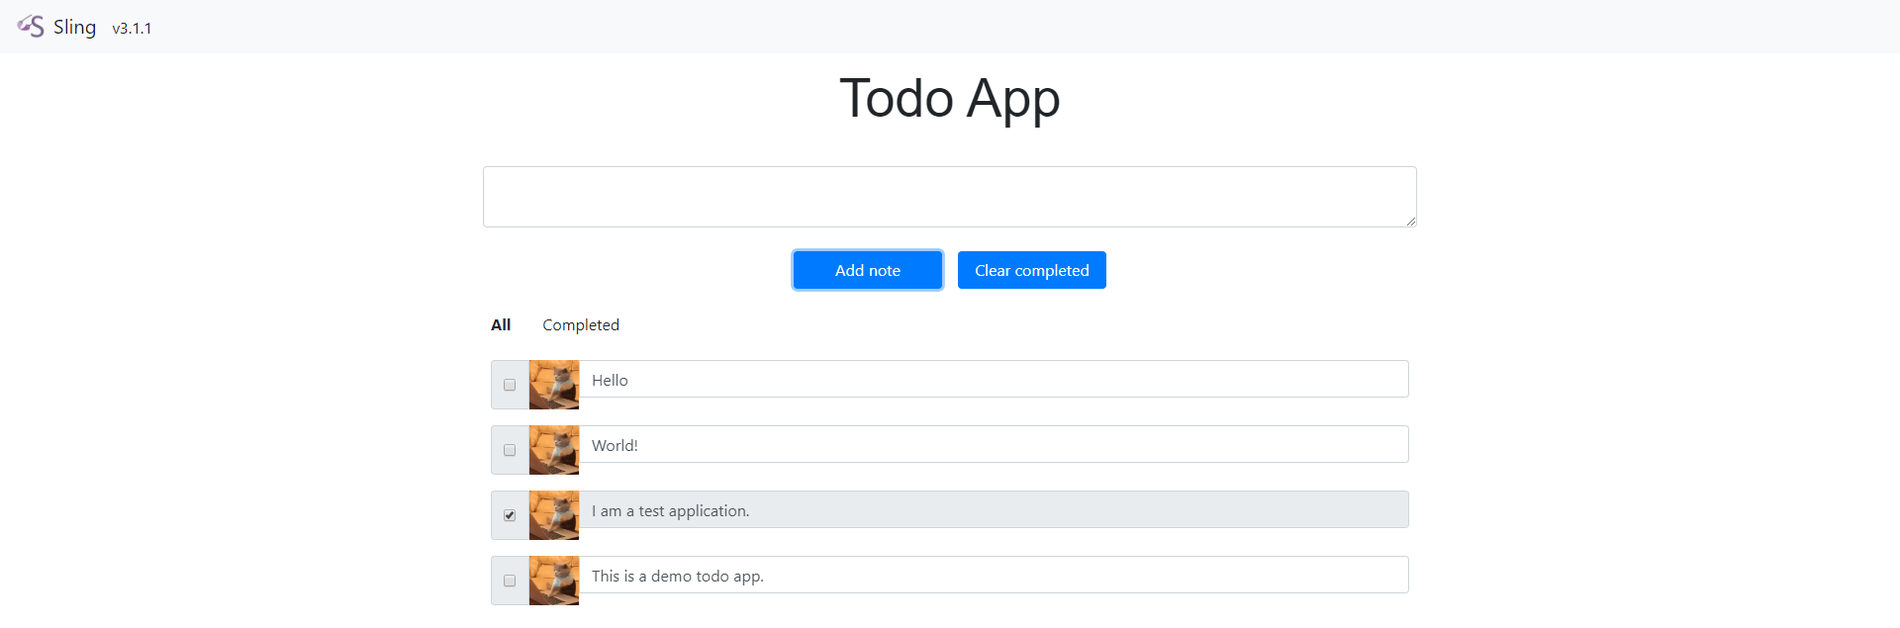
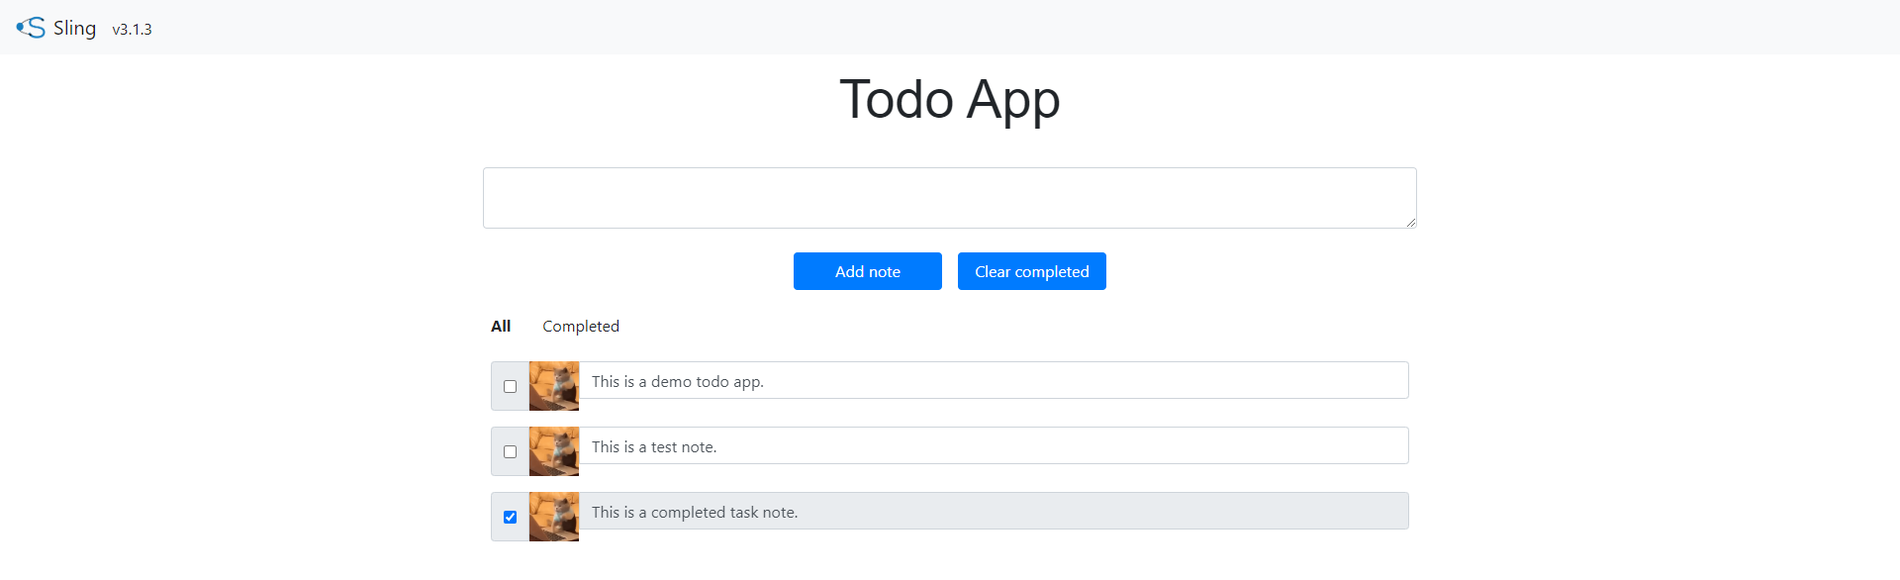
Bug fixes for demo app and updated images
* Updated images for Sling version 3.1.3.
* Minor bug fixes for demo todo app. Attribute readonly set correctly and checked property set correctly.

diff --git a/dist/dist.js b/dist/dist.js
@@ -1,1 +1,1 @@
-!function(t){var e={};function n(o){if(e[o])return e[o].exports;var r=e[o]={i:o,l:!1,exports:{}};return t[o].call(r.exports,r,r.exports,n),r.l=!0,r.exports}n.m=t,n.c=e,n.d=function(t,e,o){n.o(t,e)||Object.defineProperty(t,e,{enumerable:!0,get:o})},n.r=function(t){"undefined"!=typeof Symbol&&Symbol.toStringTag&&Object.defineProperty(t,Symbol.toStringTag,{value:"Module"}),Object.defineProperty(t,"__esModule",{value:!0})},n.t=function(t,e){if(1&e&&(t=n(t)),8&e)return t;if(4&e&&"object"==typeof t&&t&&t.__esModule)return t;var o=Object.create(null);if(n.r(o),Object.defineProperty(o,"default",{enumerable:!0,value:t}),2&e&&"string"!=typeof t)for(var r in t)n.d(o,r,function(e){return t[e]}.bind(null,r));return o},n.n=function(t){var e=t&&t.__esModule?function(){return t.default}:function(){return t};return n.d(e,"a",e),e},n.o=function(t,e){return Object.prototype.hasOwnProperty.call(t,e)},n.p="",n(n.s=0)}([function(t,e,n){"use strict";n.r(e);let o=!1;if(!window.s){o=!0,window.s=function(){};const t=window.setTimeout,e=window.setInterval;s.detachedSetTimeout=t.bind(window),s.detachedSetInterval=e.bind(window),s.version="3.1.2",s.state={},s.destroyFuncArr=[],s.updateMap=new Map}const r=({tagName:t,attrs:e,children:n})=>{let o,r=document.createElement(t);for(let[t,n]of Object.entries(e))"function"===(o=typeof n)?r[t]=n:r.setAttribute(t,n);for(let t of n){let e=l(t);r.appendChild(e)}return r},i=(t,e)=>{let n=[];(t=Array.from(t)).forEach((t,o)=>{n.push(a(t,e[o]))});let o=[];for(let n of e.slice(t.length))"string"==typeof n?o.push(t=>(t.textContent!==n&&(t.textContent=n),t)):o.push(t=>(t.appendChild(l(n)),t));return t=>{for(let[e,o]of((t,e)=>{let n=[];for(let o=0;o<Math.max(t.length,e.length);++o)n.push([t[o],e[o]]);return n})(n,t.childNodes))e&&e(o);for(let e of o)e(t);return s._cdr&&s.changeDetector.changeDetectionStrategy===s.CHANGE_STRATEGY_AUTOMATIC&&s._proxyAllEvents(t),t}},a=(t,e)=>{if(!e)return t=>{t.remove()};if("string"==typeof t||"string"==typeof e)return t!==e?t=>{let n=l(e);return t.replaceWith(n),n}:t=>void 0;if(e.attrs.slUseExisting)return t=>t;let n=((t,e)=>{let n,o=[];for(let n of t)e[n.name]||o.push(t=>(t.setAttribute(n.name,n.value),t));for(let[t,r]of Object.entries(e))"function"===(n=typeof r)?o.push(e=>(e[t]=r,e)):o.push(e=>(e.setAttribute(t,r),e));for(let n of t)n in e||o.push(t=>(t.removeAttribute(n),t));return t=>{for(let e of o)e(t)}})(t.attributes,e.attrs),o=i(t.children,e.children);return t=>(n(t),o(t),t)},l=t=>"string"==typeof t?document.createTextNode(t):r(t),c=(t,e,n)=>{let o=t.id,i=(t=>(t.slOnInit&&t.slOnInit(),"string"==typeof(t=t.view())?document.createTextNode(t):r(t)))(e);if(n&&s.updateMap.set(t.id,e),t.replaceWith(i),t.id!==o&&(console.warn('Mounted component root element ID set to: "'+o+'"'),t.id=o),e.slAfterInit){let t=setInterval(()=>{e.slAfterInit(),s._performChangeDetection(),clearInterval(t)},0)}return i};function u(t){s.state=t}function d(){return s.state}function p(t){return String(t)}function h(t,{attrs:e={},children:n=[]}={}){return{tagName:t=t.toUpperCase(),attrs:e,children:n}}function g(t,e,n=!0){let o=t,r=document.getElementById(t);if(null!==r)return c(r,e,n);throw"Element ID '"+o+"' is invalid."}if(o&&(s._mountInternal=c),o&&(s.mount=g),o&&(s.update=function(t,e){t=document.getElementById(t);let n=e.view.bind(e)();t=a(t,n)(t)}),o){let t=window.onpopstate;window.onpopstate=function(e){t&&t(e),s.route(s.getRoute())}}var f=class{constructor(){}view(){return h("nav",{attrs:{class:"navbar navbar-light bg-light",id:"divNavbar"},children:[h("span",{attrs:{},children:[h("img",{attrs:{src:"images/sling.png",width:"30px",height:"30px",class:"d-inline-block align-top",style:"margin-right:0.5rem;margin-top:0.3125rem;margin-bottom:0.3125rem;"},children:[]}),h("span",{attrs:{class:"navbar-brand"},children:[p("Sling")]}),h("div",{attrs:{style:"display:inline-flex;"},children:[h("ul",{attrs:{class:"navbar-nav"},children:[h("li",{attrs:{class:"nav-item"},children:[p("v"+s.version)]})]})]})]})]})}};var m=class{constructor(t,e){this.text=t,this.completed=e}};const v="cookieNoteData";var y=class{constructor(){}getNoteCookie(){return this.getCookie(v)}setNoteCookie(t){this.setCookie(v,JSON.stringify(t),31)}setCookie(t,e,n){var o=new Date;o.setTime(o.getTime()+24*n*60*60*1e3);var r="expires="+o.toUTCString();document.cookie=t+"="+e+";"+r+";path=/"}getCookie(t){for(var e=t+"=",n=decodeURIComponent(document.cookie).split(";"),o=0;o<n.length;o++){for(var r=n[o];" "==r.charAt(0);)r=r.substring(1);if(0==r.indexOf(e))return r.substring(e.length,r.length)}return""}};var w=class{constructor(){this.noteText="",this.inputTarget=null}slOnInit(){console.log("Initializing NoteInputComponent")}updateNoteText(t){this.noteText=t.target.value,this.inputTarget=t.target}getNoteText(){return this.noteText}resetInput(){this.noteText="",this.inputTarget.value=""}addNewNote(){const t=this.getNoteText();if(!t||0===t.length)return;let e=d();e.getNotes().push(new m(t,!1)),u(e),(new y).setNoteCookie(e),this.resetInput()}clearCompletedNotes(){let t,e=d(),n=!1;for(let o=0;o<e.getNotes().length;++o)!0===(t=e.getNotes()[o]).completed&&(e.getNotes().splice(o,1),n=!0,o--);!0===n&&(u(e),(new y).setNoteCookie(e)),document.querySelectorAll("#divTodoList input").forEach(t=>{t.checked=!1,t.removeAttribute("readonly")})}view(){return h("div",{attrs:{class:"input-group",id:"divNoteInput",style:"padding:1rem;"},children:[h("div",{attrs:{style:"display:grid;width:50%;margin:auto;"},children:[h("textarea",{attrs:{class:"form-control","aria-label":"Note textarea",oninput:this.updateNoteText.bind(this)}}),h("br",{}),h("div",{attrs:{style:"justify-self:center;"},children:[h("button",{attrs:{class:"btn btn-primary",type:"submit",onclick:this.addNewNote.bind(this),style:"width:150px;margin-right:1rem;"},children:[p("Add note")]}),h("button",{attrs:{class:"btn btn-primary",type:"submit",onclick:this.clearCompletedNotes.bind(this),style:"width:150px;"},children:[p("Clear completed")]})]})]})]})}};var b=class{constructor(){}completeNote(t){let e=d(),n=0,o=!1;e.getNotes().forEach((e,r)=>{e===t&&(e.completed=!t.completed,o=!0,n=r)}),u(e),(new y).setNoteCookie(e),!0===o&&!1===t.completed&&document.querySelectorAll("#divTodoList input").forEach((t,e)=>{e===2*n+1&&t.removeAttribute("readonly")})}updateNote(t,e){let n=d();n.getNotes().forEach(n=>{n===t&&(n.text=e.target.value)}),u(n),(new y).setNoteCookie(n)}view(){return h("div",{attrs:{id:"divTodoList"},children:[h("div",{attrs:{style:"width:50%;margin:auto;padding:1rem;"},children:[...Array.from(d().getNotes(),t=>h("div",{attrs:{class:"input-group mb-3 animEnter",style:"width:100%;"},children:[h("div",{attrs:{class:"input-group-prepend"},children:[h("div",{attrs:{class:"input-group-text"},children:[h("input",{attrs:{type:"checkbox",...t.completed&&{checked:"true"},onchange:this.completeNote.bind(this,t)}})]}),h("img",{attrs:{src:"images/cat-typing.gif",width:"50px",height:"50px"}})]}),h("input",{attrs:{value:t.text,class:"form-control",...t.completed&&{readonly:"true"},oninput:this.updateNote.bind(this,t),style:"margin-left:1px;"}})]}))]})]})}};var A=class{constructor(){}view(){return h("div",{attrs:{id:"divTodoHeader"},children:[h("h4",{attrs:{style:"text-align:center;padding:1rem;font-family:Arial;line-height:58px;font-size:54px;font-weight:300;"},children:[p("Todo App")]})]})}};var T=class{constructor(){}slOnDestroy(){console.log("Destroy completed list component")}completeNote(t){let e=d();e.getNotes().forEach(e=>{e===t&&(e.completed=!t.completed)}),u(e),(new y).setNoteCookie(e)}view(){return h("div",{attrs:{id:"divTodoList"},children:[h("div",{attrs:{style:"width:50%;margin:auto;padding:1rem;"},children:[...Array.from(d().getNotes().filter(t=>!!t.completed),t=>h("div",{attrs:{class:"input-group mb-3 animEnter",style:"width:100%;"},children:[h("div",{attrs:{class:"input-group-prepend"},children:[h("div",{attrs:{class:"input-group-text"},children:[h("input",{attrs:{type:"checkbox",...t.completed&&{checked:"true"},onchange:this.completeNote.bind(this,t)}})]})]}),h("input",{attrs:{value:t.text,class:"form-control",...t.completed&&{readonly:"true"}}})]}))]})]})}};let N=!1;s._rtr||(s._rtr=1,N=!0,s.router={segmentArr:[],routeMap:new Map,params:null},Object.seal(s.router));const C=()=>{let t=window.location.href.split("#")[1];if(s.router.segmentArr.splice(0,s.router.segmentArr.length),t){t.split("/").forEach(t=>{s.router.segmentArr.push(t)})}};function E(){return s.router.segmentArr}function x(t,e){s.router.routeMap.set(new RegExp("^"+t.replace(/:[^\/]+/g,"([^\\/]+)")+"$"),e)}function _(t,e={},n=!0){s.router.params=e;let o=null;return s.router.routeMap.forEach((e,r)=>{if(r.test(t)){if(e.authGuard&&!e.authGuard(r))return e.authFail&&(o=s.route(e.authFail.route,e.authFail.params)),void(t=void 0);s.destroyFuncArr.forEach(t=>{t()}),s.destroyFuncArr=[],window.location.hash=t,C();let i=document.getElementById(e.root);e.component&&(s._mountInternal(i,e.component,n),e.component.slOnDestroy&&s.destroyFuncArr.push(e.component.slOnDestroy),o=e.component)}}),s.changeDetector.changeDetectionStrategy===s.CHANGE_STRATEGY_AUTOMATIC&&s._performChangeDetection(),o}N&&(s.getRoute=function(){return window.location.href.split("#")[1]}),N&&(s.route=_),N&&C();const S=t=>{const e=["pop","push","reverse","shift","unshift","splice","sort","map","filter","fill","copyWithin"],n=e.slice(0,6),o={},r=[];let s=t,i=0;const a=function(t){0===i?(r.forEach(e=>{e(t)}),i++):i=0};return o.subscribe=function(t){return r.push(t),s=new Proxy(s,{set:function(t,e,n){return"length"===e?(t[e]=n,!0):!1===isNaN(e)?(t[e]=n,a(t),!0):void 0}}),e.forEach((function(t){Object.defineProperty(s,t,{writable:!0,value:function(){let e=s;return n.indexOf(t)>-1?Array.prototype[t].apply(e,arguments):e=Array.prototype[t].apply(e,arguments),a(e),e}})})),this},o.clearSubscription=function(t){const e=r.filter(e=>e!==t);return this.clearSubscriptions(),r.concat(e),this},o.clearSubscriptions=function(){return r.splice(0,r.length),this},o.getData=function(){return s},o};var k=class{constructor(){this.routeString=""}slOnInit(){this.performRouteAction(E()[0]),S(E()).subscribe(function(t){t.length>0?this.routeString=t[0]:this.routeString=""}.bind(this))}routeToAll(){_("all")}routeToCompleted(){_("completed")}performRouteAction(t){switch(this.routeString=t,t){case"all":this.routeToAll();break;case"completed":this.routeToCompleted();break;default:this.routeString="all",this.routeToAll()}}completeNote(t){let e=d();e.getNotes().forEach(e=>{e===t&&(e.completed=!t.completed)}),setState(e),(new y).setNoteCookie(e)}view(){return h("ul",{attrs:{class:"nav",style:"width:50%;margin:auto;",id:"divNoteNav"},children:[h("li",{attrs:{class:"nav-item"},children:[h("a",{attrs:{..."all"!==this.routeString&&{class:"nav-link"},..."all"===this.routeString&&{class:"nav-link textBold"},onclick:this.performRouteAction.bind(this,"all"),style:"cursor:pointer;"},children:[p("All")]})]}),h("li",{attrs:{class:"nav-item"},children:[h("a",{attrs:{..."completed"!==this.routeString&&{class:"nav-link"},..."completed"===this.routeString&&{class:"nav-link textBold"},onclick:this.performRouteAction.bind(this,"completed"),style:"cursor:pointer;"},children:[p("Completed")]})]})]})}};var D=class{constructor(){this.notes=[]}getNotes(){return this.notes}setNotes(t){this.notes=t}addNotes(t){t.notes.forEach(t=>{this.notes.push(t)})}};let I=!1;s._cdr||(s._cdr=1,I=!0,s.CHANGE_STRATEGY_AUTOMATIC=100,s.CHANGE_STRATEGY_MANUAL=200,s.CHANGE_DETECTOR_DETACHED=!1,s.CHANGE_DETECTOR_ATTACHED=!0,s.changeStrategies=[s.CHANGE_STRATEGY_AUTOMATIC,s.CHANGE_STRATEGY_MANUAL],s.changeDetector={lastUpdateDate:new Date,changeDetectionStrategy:s.CHANGE_STRATEGY_AUTOMATIC},Object.seal(s.changeDetector));const O=(t,e)=>{if(e[t]){let n=e[t];e[t]=function(){let t=n.apply(this,[].slice.call(arguments));return s._performChangeDetection(),t}}};const M=()=>{s.updateMap.forEach((t,e)=>{s.update(e,t)})};I&&(s._debouncedPerformUpdates=function(t,e){let n;return function(...o){const r=this;clearTimeout(n),n=s.detachedSetTimeout(()=>t.apply(r,o),e)}}(M,17));if(I&&(s._performChangeDetection=()=>{if(s.changeDetector.changeDetectionStrategy!==s.CHANGE_STRATEGY_AUTOMATIC)return;new Date-s.changeDetector.lastUpdateDate>17?M():s._debouncedPerformUpdates(),s.changeDetector.lastUpdateDate=new Date}),I){const t=t=>{["setTimeout","setInterval","onafterprint","onbeforeprint","onbeforeunload","onerror","onhashchange","onload","onmessage","onoffline","ononline","onpagehide","onpageshow","onpopstate","onresize","onstorage","onunload","onblur","onchange","oncontextmenu","onfocus","oninput","oninvalid","onreset","onsearch","onselect","onsubmit","onkeydown","onkeypress","onkeyup","onclick","ondblclick","onmousedown","onmousemove","onmouseout","onmouseover","onmouseup","onmousewheel","onwheel","ondrag","ondragend","ondragenter","ondragleave","ondragover","ondragstart","ondrop","onscroll","oncopy","oncut","onpaste","onabort","oncanplay","oncanplaythrough","oncuechange","ondurationchange","onemptied","onended","onloadeddata","onloadedmetadata","onloadstart","onpause","onplay","onplaying","onprogress","onratechange","onseeked","onseeking","onstalled","onsuspend","ontimeupdate","onvolumechange","onwaiting","ontoggle"].forEach(e=>{O(e,t)})};s._proxyAllEvents=t}if(I){var G=window.XMLHttpRequest.prototype.send;function R(){if(this._onreadystatechange){let t=this._onreadystatechange.apply(this,arguments);return s._performChangeDetection(),t}}window.XMLHttpRequest.prototype.send=function(t){return this.onreadystatechange&&(this._onreadystatechange=this.onreadystatechange),this.onreadystatechange=R,G.apply(this,arguments)};const t=window.fetch;window.fetch=function(){let e=t.apply(this,arguments);return s._performChangeDetection(),e},s._proxyAllEvents(window)}var U;U=s.CHANGE_STRATEGY_AUTOMATIC,s.changeStrategies.forEach(t=>{t[1]===U&&(s.changeDetector.changeDetectionStrategy=U)});let H=(new y).getNoteCookie(),j=new D;H.length>0&&j.addNotes(JSON.parse(H)),u(j),x("all",{component:new b,root:"divTodoList"}),x("completed",{component:new T,root:"divTodoList"}),g("divNavbar",new f),g("divNoteInput",new w),g("divNoteNav",new k),g("divTodoHeader",new A),s.detachedSetTimeout(()=>{console.log("foo")},0)}]);
+!function(t){var e={};function n(o){if(e[o])return e[o].exports;var r=e[o]={i:o,l:!1,exports:{}};return t[o].call(r.exports,r,r.exports,n),r.l=!0,r.exports}n.m=t,n.c=e,n.d=function(t,e,o){n.o(t,e)||Object.defineProperty(t,e,{enumerable:!0,get:o})},n.r=function(t){"undefined"!=typeof Symbol&&Symbol.toStringTag&&Object.defineProperty(t,Symbol.toStringTag,{value:"Module"}),Object.defineProperty(t,"__esModule",{value:!0})},n.t=function(t,e){if(1&e&&(t=n(t)),8&e)return t;if(4&e&&"object"==typeof t&&t&&t.__esModule)return t;var o=Object.create(null);if(n.r(o),Object.defineProperty(o,"default",{enumerable:!0,value:t}),2&e&&"string"!=typeof t)for(var r in t)n.d(o,r,function(e){return t[e]}.bind(null,r));return o},n.n=function(t){var e=t&&t.__esModule?function(){return t.default}:function(){return t};return n.d(e,"a",e),e},n.o=function(t,e){return Object.prototype.hasOwnProperty.call(t,e)},n.p="",n(n.s=0)}([function(t,e,n){"use strict";n.r(e);let o=!1;if(!window.s){o=!0,window.s=function(){},s.VERSION="3.1.3";const t=window.setTimeout,e=window.setInterval;s.detachedSetTimeout=t.bind(window),s.detachedSetInterval=e.bind(window),s._state={},s._destroyFuncArr=[],s._updateMap=new Map}const r=({tagName:t,attrs:e,children:n})=>{let o,r=document.createElement(t);for(let[t,n]of Object.entries(e))"function"===(o=typeof n)?r[t]=n:r.setAttribute(t,n);for(let t of n){let e=l(t);r.appendChild(e)}return r},i=(t,e)=>{let n=[];(t=Array.from(t)).forEach((t,o)=>{n.push(a(t,e[o]))});let o=[];for(let n of e.slice(t.length))"string"==typeof n?o.push(t=>(t.textContent!==n&&(t.textContent=n),t)):o.push(t=>(t.appendChild(l(n)),t));return t=>{for(let[e,o]of((t,e)=>{let n=[];for(let o=0;o<Math.max(t.length,e.length);++o)n.push([t[o],e[o]]);return n})(n,t.childNodes))e&&e(o);for(let e of o)e(t);return s._cdr&&s._changeDetector.changeDetectionStrategy===s.CHANGE_STRATEGY_AUTOMATIC&&s._proxyAllEvents(t),t}},a=(t,e)=>{if(!e)return t=>{t.remove()};if("string"==typeof t||"string"==typeof e)return t!==e?t=>{let n=l(e);return t.replaceWith(n),n}:t=>void 0;if(e.attrs.slUseExisting)return t=>t;let n=((t,e)=>{let n,o=[];for(let n of t)e[n.name]||o.push(t=>(t.setAttribute(n.name,n.value),t));for(let[t,r]of Object.entries(e))"function"===(n=typeof r)?o.push(e=>(e[t]=r,e)):o.push(e=>(e.setAttribute(t,r),e));for(let n of t)n in e||o.push(t=>(t.removeAttribute(n),t));return t=>{for(let e of o)e(t)}})(t.attributes,e.attrs),o=i(t.children,e.children);return t=>(n(t),o(t),t)},l=t=>{if("string"==typeof t){const e=document.createElement("SPAN");return e.innerText=t,e}return r(t)},c=(t,e,n)=>{let o=t.id,i=(t=>{if(t.slOnInit&&t.slOnInit(),"string"==typeof(t=t.view())){const e=document.createElement("SPAN");return e.innerText=t,e}return r(t)})(e);if(n&&s._updateMap.set(t.id,e),t.replaceWith(i),t.id!==o&&(console.warn('Mounted component root element ID set to: "'+o+'"'),t.id=o),e.slAfterInit){let t=setInterval(()=>{e.slAfterInit(),s._performChangeDetection(),clearInterval(t)},0)}return i};function u(t){s._state=t}function d(){return s._state}function p(t){return String(t)}function h(t,{attrs:e={},children:n=[]}={}){return{tagName:t=t.toUpperCase(),attrs:e,children:n}}function g(t,e,n=!0){let o=t,r=document.getElementById(t);if(null!==r)return c(r,e,n);throw"Element ID '"+o+"' is invalid."}if(o&&(s._mountInternal=c),o&&(s._update=function(t,e){t=document.getElementById(t);let n=e.view.bind(e)();t=a(t,n)(t)}),o){let t=window.onpopstate;window.onpopstate=function(e){t&&t(e),s._route(s._getRoute())}}var f=class{constructor(){}view(){return h("nav",{attrs:{class:"navbar navbar-light bg-light",id:"divNavbar"},children:[h("span",{attrs:{},children:[h("img",{attrs:{src:"images/sling.png",width:"30px",height:"30px",class:"d-inline-block align-top",style:"margin-right:0.5rem;margin-top:0.3125rem;margin-bottom:0.3125rem;"},children:[]}),h("span",{attrs:{class:"navbar-brand"},children:[p("Sling")]}),h("div",{attrs:{style:"display:inline-flex;"},children:[h("ul",{attrs:{class:"navbar-nav"},children:[h("li",{attrs:{class:"nav-item"},children:[p("v"+s.VERSION)]})]})]})]})]})}};var m=class{constructor(t,e){this.text=t,this.completed=e}};const y="cookieNoteData";var v=class{constructor(){}getNoteCookie(){return this.getCookie(y)}setNoteCookie(t){this.setCookie(y,JSON.stringify(t),31)}setCookie(t,e,n){var o=new Date;o.setTime(o.getTime()+24*n*60*60*1e3);var r="expires="+o.toUTCString();document.cookie=t+"="+e+";"+r+";path=/"}getCookie(t){for(var e=t+"=",n=decodeURIComponent(document.cookie).split(";"),o=0;o<n.length;o++){for(var r=n[o];" "==r.charAt(0);)r=r.substring(1);if(0==r.indexOf(e))return r.substring(e.length,r.length)}return""}};var w=class{constructor(){this.noteText="",this.inputTarget=null}slOnInit(){console.log("Initializing NoteInputComponent")}updateNoteText(t){this.noteText=t.target.value,this.inputTarget=t.target}getNoteText(){return this.noteText}resetInput(){this.noteText="",this.inputTarget.value=""}addNewNote(){const t=this.getNoteText();if(!t||0===t.length)return;let e=d();e.getNotes().push(new m(t,!1)),u(e),(new v).setNoteCookie(e),this.resetInput()}clearCompletedNotes(){let t,e=d(),n=!1;for(let o=0;o<e.getNotes().length;++o)!0===(t=e.getNotes()[o]).completed&&(e.getNotes().splice(o,1),n=!0,o--);!0===n&&(u(e),(new v).setNoteCookie(e)),document.querySelectorAll("#divTodoList input").forEach(t=>{t.checked=!1,t.removeAttribute("readonly")})}view(){return h("div",{attrs:{class:"input-group",id:"divNoteInput",style:"padding:1rem;"},children:[h("div",{attrs:{style:"display:grid;width:50%;margin:auto;"},children:[h("textarea",{attrs:{class:"form-control","aria-label":"Note textarea",oninput:this.updateNoteText.bind(this)}}),h("br",{}),h("div",{attrs:{style:"justify-self:center;"},children:[h("button",{attrs:{class:"btn btn-primary",type:"submit",onclick:this.addNewNote.bind(this),style:"width:150px;margin-right:1rem;"},children:[p("Add note")]}),h("button",{attrs:{class:"btn btn-primary",type:"submit",onclick:this.clearCompletedNotes.bind(this),style:"width:150px;"},children:[p("Clear completed")]})]})]})]})}};var A=class{constructor(){}updateReadonlyAttribute(t,e){!1===t.completed?document.querySelectorAll("#divTodoList input").forEach((t,n)=>{n===2*e+1&&t.removeAttribute("readonly")}):!0===t.completed&&document.querySelectorAll("#divTodoList input").forEach((t,n)=>{n===2*e+1&&t.setAttribute("readonly",!0)})}completeNote(t){let e=d(),n=0,o=!1;e.getNotes().forEach((e,r)=>{e===t&&(e.completed=!t.completed,o=!0,n=r)}),u(e),(new v).setNoteCookie(e),!0===o&&this.updateReadonlyAttribute(t,n)}updateNote(t,e){let n=d();n.getNotes().forEach(n=>{n===t&&(n.text=e.target.value)}),u(n),(new v).setNoteCookie(n)}view(){return h("div",{attrs:{id:"divTodoList"},children:[h("div",{attrs:{style:"width:50%;margin:auto;padding:1rem;"},children:[...Array.from(d().getNotes(),t=>h("div",{attrs:{class:"input-group mb-3 animEnter",style:"width:100%;"},children:[h("div",{attrs:{class:"input-group-prepend"},children:[h("div",{attrs:{class:"input-group-text"},children:[h("input",{attrs:{type:"checkbox",...t.completed&&{checked:"true"},onchange:this.completeNote.bind(this,t)}})]}),h("img",{attrs:{src:"images/cat-typing.gif",width:"50px",height:"50px"}})]}),h("input",{attrs:{value:t.text,class:"form-control",...t.completed&&{readonly:"true"},oninput:this.updateNote.bind(this,t),style:"margin-left:1px;"}})]}))]})]})}};var b=class{constructor(){}view(){return h("div",{attrs:{id:"divTodoHeader"},children:[h("h4",{attrs:{style:"text-align:center;padding:1rem;font-family:Arial;line-height:58px;font-size:54px;font-weight:300;"},children:[p("Todo App")]})]})}};var _=class{constructor(){}slOnDestroy(){console.log("Destroy completed list component")}applyCheckedProperty(){document.querySelectorAll("#divTodoList input").forEach((t,e)=>{e%2==0&&(t.checked=!0)})}completeNote(t){let e=d();e.getNotes().forEach(e=>{e===t&&(e.completed=!t.completed)}),u(e),(new v).setNoteCookie(e),this.applyCheckedProperty()}view(){return h("div",{attrs:{id:"divTodoList"},children:[h("div",{attrs:{style:"width:50%;margin:auto;padding:1rem;"},children:[...Array.from(d().getNotes().filter(t=>!!t.completed),t=>h("div",{attrs:{class:"input-group mb-3 animEnter",style:"width:100%;"},children:[h("div",{attrs:{class:"input-group-prepend"},children:[h("div",{attrs:{class:"input-group-text"},children:[h("input",{attrs:{type:"checkbox",...t.completed&&{checked:"true"},onchange:this.completeNote.bind(this,t)}})]})]}),h("input",{attrs:{value:t.text,class:"form-control",...t.completed&&{readonly:"true"}}})]}))]})]})}};let T=!1;s._rtr||(s._rtr=1,T=!0,s._router={segmentArr:[],routeMap:new Map,params:null},Object.seal(s._router));const N=()=>{let t=window.location.href.split("#")[1];if(s._router.segmentArr.splice(0,s._router.segmentArr.length),t){t.split("/").forEach(t=>{s._router.segmentArr.push(t)})}};function E(){return s._router.segmentArr}function C(t,e){s._router.routeMap.set(new RegExp("^"+t.replace(/:[^\/]+/g,"([^\\/]+)")+"$"),e)}function x(t,e={},n=!0){s._router.params=e;let o=null;return s._router.routeMap.forEach((e,r)=>{if(r.test(t)){if(e.authGuard&&!e.authGuard(r))return e.authFail&&(o=s._route(e.authFail.route,e.authFail.params)),void(t=void 0);s._destroyFuncArr.forEach(t=>{t()}),s._destroyFuncArr=[],window.location.hash=t,N();let i=document.getElementById(e.root);e.component&&(s._mountInternal(i,e.component,n),e.component.slOnDestroy&&s._destroyFuncArr.push(e.component.slOnDestroy),o=e.component)}}),s._changeDetector.changeDetectionStrategy===s.CHANGE_STRATEGY_AUTOMATIC&&s._performChangeDetection(),o}T&&(s._getRoute=function(){return window.location.href.split("#")[1]}),T&&(s._route=x),T&&N();const S=t=>{const e=["pop","push","reverse","shift","unshift","splice","sort","map","filter","fill","copyWithin"],n=e.slice(0,6),o={},r=[];let s=t,i=0;const a=function(t){0===i?(r.forEach(e=>{e(t)}),i++):i=0};return o.subscribe=function(t){return r.push(t),s=new Proxy(s,{set:function(t,e,n){return"length"===e?(t[e]=n,!0):!1===isNaN(e)?(t[e]=n,a(t),!0):void 0}}),e.forEach((function(t){Object.defineProperty(s,t,{writable:!0,value:function(){let e=s;return n.indexOf(t)>-1?Array.prototype[t].apply(e,arguments):e=Array.prototype[t].apply(e,arguments),a(e),e}})})),this},o.clearSubscription=function(t){const e=r.filter(e=>e!==t);return this.clearSubscriptions(),r.concat(e),this},o.clearSubscriptions=function(){return r.splice(0,r.length),this},o.getData=function(){return s},o};var k=class{constructor(){this.routeString=""}slOnInit(){this.performRouteAction(E()[0]),S(E()).subscribe(function(t){t.length>0?this.routeString=t[0]:this.routeString=""}.bind(this))}routeToAll(){x("all")}routeToCompleted(){x("completed")}performRouteAction(t){switch(this.routeString=t,t){case"all":this.routeToAll();break;case"completed":this.routeToCompleted();break;default:this.routeString="all",this.routeToAll()}}completeNote(t){let e=d();e.getNotes().forEach(e=>{e===t&&(e.completed=!t.completed)}),setState(e),(new v).setNoteCookie(e)}view(){return h("ul",{attrs:{class:"nav",style:"width:50%;margin:auto;",id:"divNoteNav"},children:[h("li",{attrs:{class:"nav-item"},children:[h("a",{attrs:{..."all"!==this.routeString&&{class:"nav-link"},..."all"===this.routeString&&{class:"nav-link textBold"},onclick:this.performRouteAction.bind(this,"all"),style:"cursor:pointer;"},children:[p("All")]})]}),h("li",{attrs:{class:"nav-item"},children:[h("a",{attrs:{..."completed"!==this.routeString&&{class:"nav-link"},..."completed"===this.routeString&&{class:"nav-link textBold"},onclick:this.performRouteAction.bind(this,"completed"),style:"cursor:pointer;"},children:[p("Completed")]})]})]})}};var D=class{constructor(){this.notes=[]}getNotes(){return this.notes}setNotes(t){this.notes=t}addNotes(t){t.notes.forEach(t=>{this.notes.push(t)})}};let I=!1;s._cdr||(s._cdr=1,I=!0,s.CHANGE_STRATEGY_AUTOMATIC=100,s.CHANGE_STRATEGY_MANUAL=200,s.CHANGE_DETECTOR_DETACHED=!1,s.CHANGE_DETECTOR_ATTACHED=!0,s.changeStrategies=[s.CHANGE_STRATEGY_AUTOMATIC,s.CHANGE_STRATEGY_MANUAL],s._changeDetector={lastUpdateDate:new Date,changeDetectionStrategy:s.CHANGE_STRATEGY_AUTOMATIC},Object.seal(s._changeDetector));const O=(t,e)=>{if(e[t]){let n=e[t];e[t]=function(){let t=n.apply(this,[].slice.call(arguments));return s._performChangeDetection(),t}}};const M=()=>{s._updateMap.forEach((t,e)=>{s._update(e,t)})};I&&(s._debouncedPerformUpdates=function(t,e){let n;return function(...o){const r=this;clearTimeout(n),n=s.detachedSetTimeout(()=>t.apply(r,o),e)}}(M,17));if(I&&(s._performChangeDetection=()=>{if(s._changeDetector.changeDetectionStrategy!==s.CHANGE_STRATEGY_AUTOMATIC)return;new Date-s._changeDetector.lastUpdateDate>17?M():s._debouncedPerformUpdates(),s._changeDetector.lastUpdateDate=new Date}),I){const t=t=>{["setTimeout","setInterval","onafterprint","onbeforeprint","onbeforeunload","onerror","onhashchange","onload","onmessage","onoffline","ononline","onpagehide","onpageshow","onpopstate","onresize","onstorage","onunload","onblur","onchange","oncontextmenu","onfocus","oninput","oninvalid","onreset","onsearch","onselect","onsubmit","onkeydown","onkeypress","onkeyup","onclick","ondblclick","onmousedown","onmousemove","onmouseout","onmouseover","onmouseup","onmousewheel","onwheel","ondrag","ondragend","ondragenter","ondragleave","ondragover","ondragstart","ondrop","onscroll","oncopy","oncut","onpaste","onabort","oncanplay","oncanplaythrough","oncuechange","ondurationchange","onemptied","onended","onloadeddata","onloadedmetadata","onloadstart","onpause","onplay","onplaying","onprogress","onratechange","onseeked","onseeking","onstalled","onsuspend","ontimeupdate","onvolumechange","onwaiting","ontoggle"].forEach(e=>{O(e,t)})};s._proxyAllEvents=t}if(I){var R=window.XMLHttpRequest.prototype.send;function G(){if(this._onreadystatechange){let t=this._onreadystatechange.apply(this,arguments);return s._performChangeDetection(),t}}window.XMLHttpRequest.prototype.send=function(t){return this.onreadystatechange&&(this._onreadystatechange=this.onreadystatechange),this.onreadystatechange=G,R.apply(this,arguments)};const t=window.fetch;window.fetch=function(){let e=t.apply(this,arguments);return s._performChangeDetection(),e},s._proxyAllEvents(window)}var U;U=s.CHANGE_STRATEGY_AUTOMATIC,s.changeStrategies.forEach(t=>{t[1]===U&&(s._changeDetector.changeDetectionStrategy=U)});let H=(new v).getNoteCookie(),j=new D;H.length>0&&j.addNotes(JSON.parse(H)),u(j),C("all",{component:new A,root:"divTodoList"}),C("completed",{component:new _,root:"divTodoList"}),g("divNavbar",new f),g("divNoteInput",new w),g("divNoteNav",new k),g("divTodoHeader",new b)}]);

diff --git a/src/todo/components/todo-list.component.js b/src/todo/components/todo-list.component.js
@@ -1,10 +1,27 @@
 import NoteService from '../services/note.service.js';
 
 import { getState, setState, markup } from '../../sling/core/sling';
+//import { detectChanges } from '../../sling/core/sling-change';
 
 class TodoListComponent {
 
     constructor() {
+    }
+
+    updateReadonlyAttribute(note, updatedNoteIndex) {
+        if (note.completed === false) {
+            document.querySelectorAll('#divTodoList input').forEach((node, index) => {
+                if (index === ((updatedNoteIndex * 2) + 1)) {
+                    node.removeAttribute('readonly');
+                }
+            });
+        } else if (note.completed === true) {
+            document.querySelectorAll('#divTodoList input').forEach((node, index) => {
+                if (index === ((updatedNoteIndex * 2) + 1)) {
+                    node.setAttribute('readonly', true);
+                }
+            });
+        }
     }
 
     completeNote(note) {
@@ -23,12 +40,8 @@ class TodoListComponent {
         setState(stateObj);
         new NoteService().setNoteCookie(stateObj);
 
-        if (updatedNote === true && note.completed === false) {
-            document.querySelectorAll('#divTodoList input').forEach((node, index) => {
-                if (index === ((updatedNoteIndex * 2) + 1)) {
-                    node.removeAttribute('readonly');
-                }
-            });
+        if (updatedNote === true) {
+            this.updateReadonlyAttribute(note, updatedNoteIndex);
         }
     }
 

diff --git a/src/todo/components/todo-list-completed.component.js b/src/todo/components/todo-list-completed.component.js
@@ -11,6 +11,14 @@ class TodoListCompletedComponent {
         console.log('Destroy completed list component');
     }
 
+    applyCheckedProperty() {
+        document.querySelectorAll('#divTodoList input').forEach((node, index) => {
+            if (index % 2 === 0) {
+                node.checked = true;
+            }
+        });
+    }
+
     completeNote(note) {
         let stateObj = getState();
 
@@ -22,6 +30,8 @@ class TodoListCompletedComponent {
 
         setState(stateObj);
         new NoteService().setNoteCookie(stateObj);
+
+        this.applyCheckedProperty();
     }
 
     view() {

diff --git a/src/todo/components/navbar.component.js b/src/todo/components/navbar.component.js
@@ -51,7 +51,7 @@ class NavbarComponent {
                                                 class: 'nav-item'
                                             },
                                             children: [
-                                                textNode('v' + s.version)
+                                                textNode('v' + s.VERSION)
                                             ]
                                         })
                                     ]
